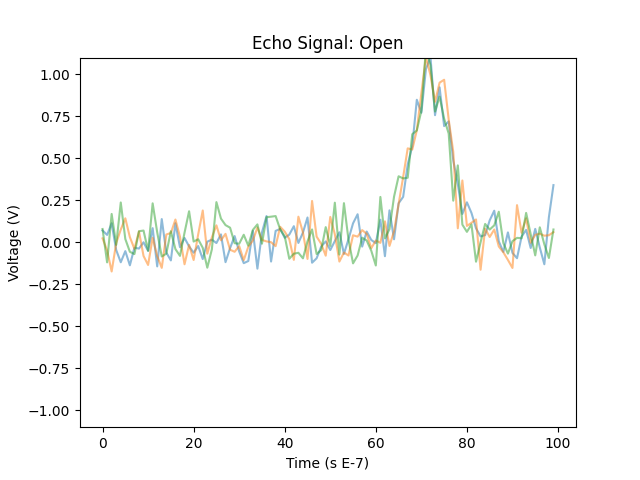
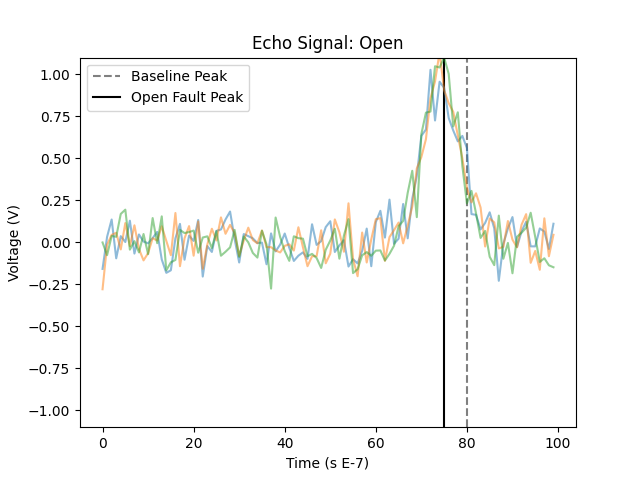
experimental results sig tuning

Changed region(s): [[0.1562, 0.125, 0.875, 0.5938], [0.125, 0.125, 0.375, 0.2188]]

diff --git a/code/echo_simulator.py b/code/echo_simulator.py
@@ -60,7 +60,7 @@ def baseline_echo(n_samples: int, packet_peak: float = TERMINUS * 0.8) -> pd.Dat
 
 
 def open_fault_echo(n_samples: int) -> pd.DataFrame:
-    packet_peak = TERMINUS * np.random.uniform(0.7, 0.9)
+    packet_peak = TERMINUS * 0.75  # np.random.uniform(0.7, 0.9)
 
     samples = baseline_echo(n_samples, packet_peak)
     return pd.DataFrame(samples)
@@ -91,6 +91,11 @@ def save_samples(samples: pd.DataFrame, output_file_path: str):
 
 
 def plot_samples(samples: pd.DataFrame, fault_type: str):
+
+    if fault_type == "open":
+        plt.axvline(x=80, color="gray", linestyle="--", label="Baseline Peak")
+        plt.axvline(x=75, color="black", linestyle="-", label="Open Fault Peak")
+        plt.legend()
 
     for _, row in samples.iterrows():
         plt.plot(row, alpha=0.5)

diff --git a/README.md b/README.md
@@ -32,7 +32,32 @@ The contents of `code/fault_modelers.py` classify faults using statistical infer
 
 ## Experimental Results
 
+Our fault detection model forms the bedrock of the modeling task; it measures the similarity/difference between its training data and a newly encountered echo. A first step is in tuning its sensitivity. The basic premise of this experiment was to 
 
+* Train a baseline fault detection model.
+* Sweep across a range of sensitivities, classifying fault and non-fault echos.
+* Produce artifacts which enable us to choose the sensitivity that controls error rates. 
+
+The figures below show baseline signal, short faults, and open faults.
+
+<p align="center">
+  <img src="artifacts/figs/echo_baseline_samples_s1e-1.png" width="30%" />
+  <img src="artifacts/figs/echo_short_fault_samples_s1e-1.png" width="30%" />
+  <img src="artifacts/figs/echo_open_fault_samples_s1e-1.png" width="30%" />
+</p>
+
+Originally I had planned on studying short and open faults, but the former (as conceived in this simulation) was not challenging enough to be interesting and the fault classifier was perfect. Since Mahalanobis distance operates on correlations, an inverted signal is extremely disimilar to baseline.
+
+The open fault was more interesting, representing only a shift in echo peak, not inversion. I constructed the problem to be challenging: the baseline peak was located at `0.8 * conductor_length` and the open fault occured at a location uniformly distributed within `(0.7 * conductor_length, 0.9 * conductor_length)`. 
+
+Over 500 simulations, the baseline classifer exhibited the following error rates.
+
+<p align="center">
+    <img src="artifacts/open_fault_20260316_213726/results/precision_recall_curve.png", width="40%"/>
+    <img src="artifacts/open_fault_20260316_213726/results/roc_curve.png", width="40%"/>
+</p>
+
+Someone implementing this algorithm could then choose the significance threshold to deploy based on the desired error rates. 
 
 ## Future Work
 
